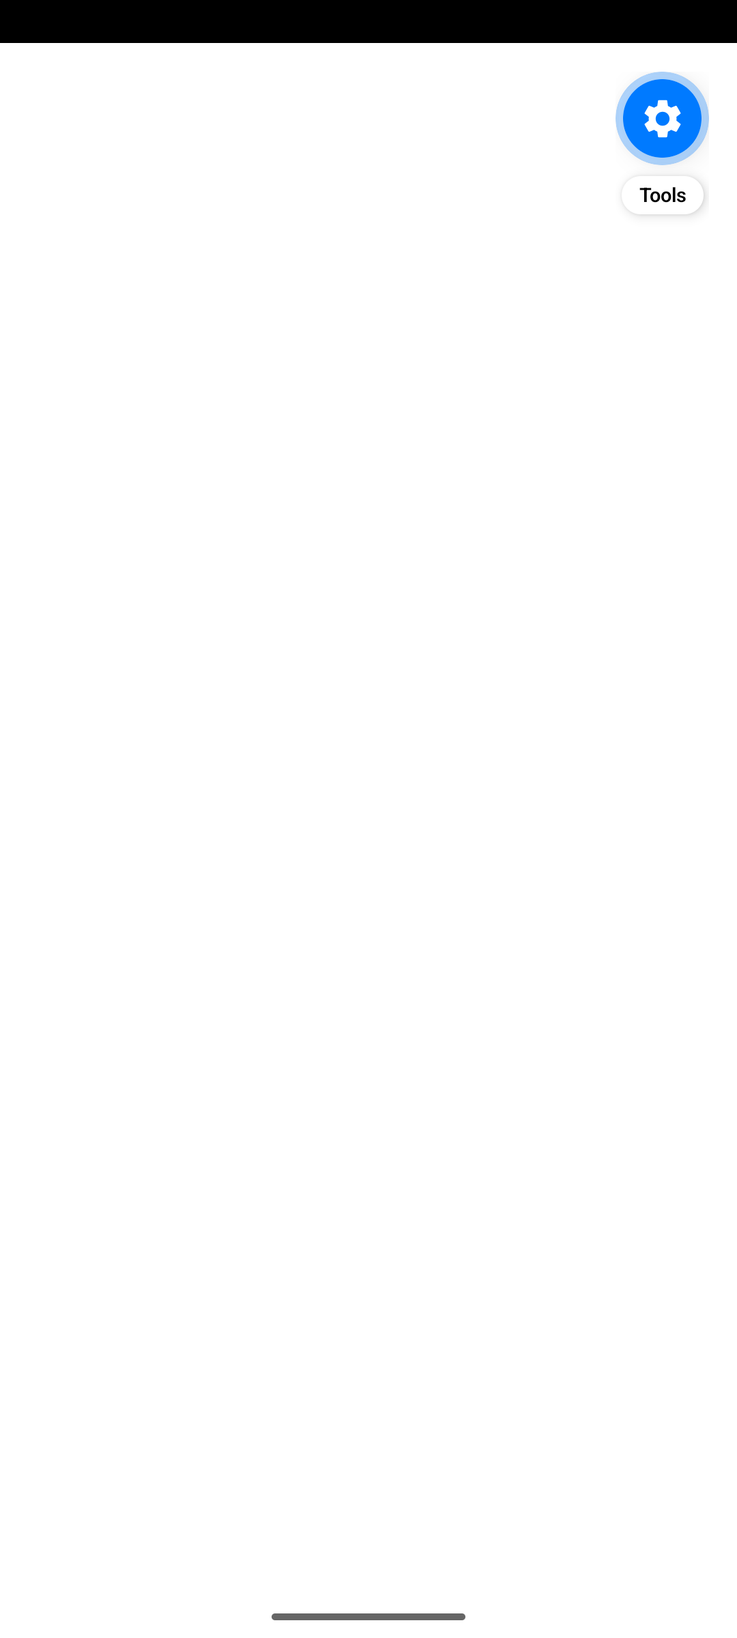
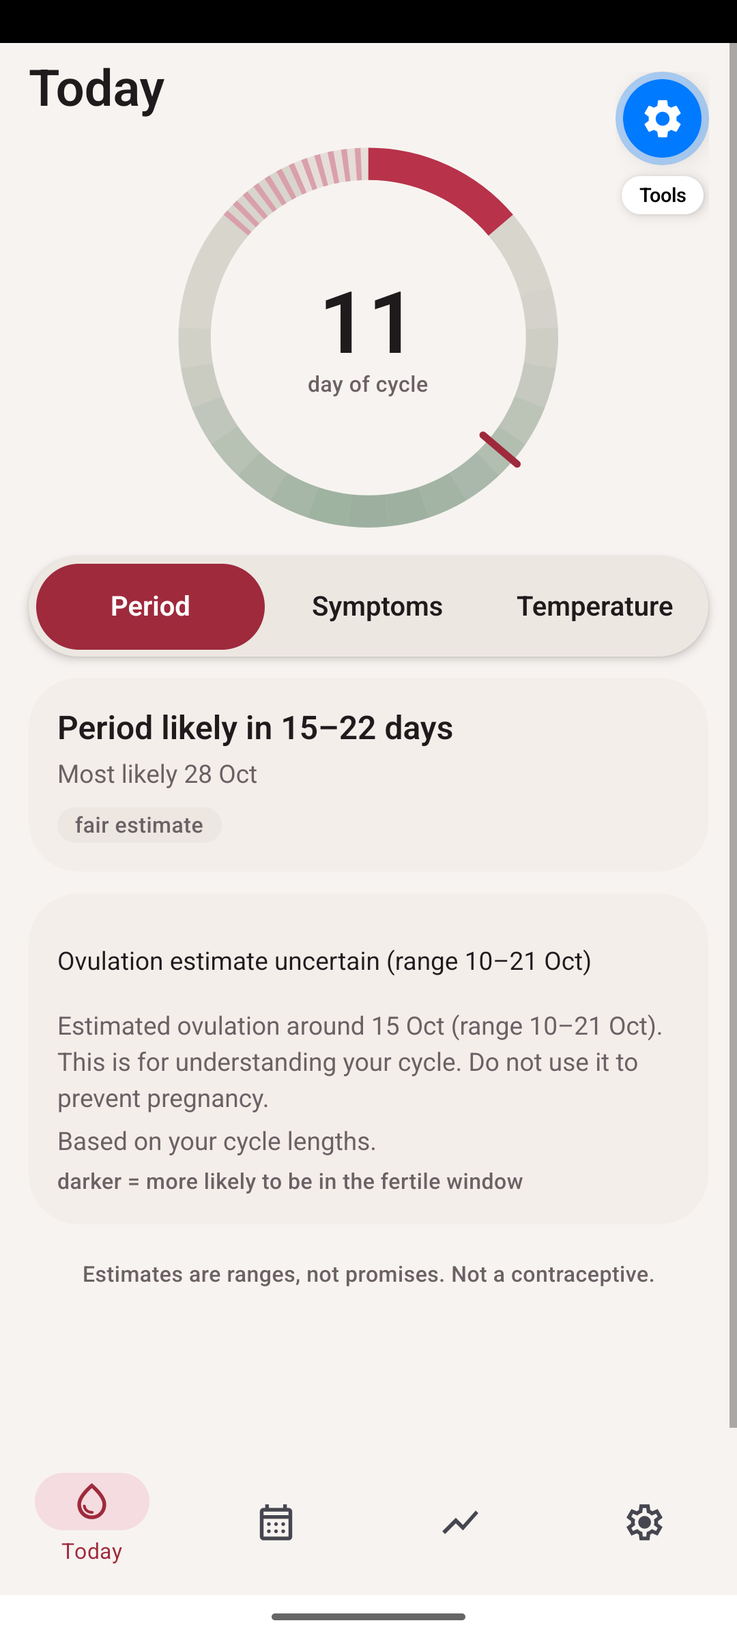
P2-13 app lock, discreet notifications and scheduled reminders

diff --git a/apps/mobile/src/app/settings/notifications.tsx b/apps/mobile/src/app/settings/notifications.tsx
@@ -1,23 +1,34 @@
+import { useState } from 'react';
 import { useTranslation } from 'react-i18next';
+import { ensurePermission, remindersSupported } from '@/services/notifications';
 import { useApp } from '@/state/app';
 import { Card } from '@/ui/Card';
 import { Group, SettingsRow, SwitchRow } from '@/ui/SettingsRow';
 import { SubScreen } from '@/ui/SubScreen';
+import { formatDay } from '@/ui/format';
 import { Text } from '@/ui/Text';
 
 export default function NotificationsScreen() {
   const { t } = useTranslation();
-  const { prefs, prediction, today, updatePrefs } = useApp();
+  const { prefs, prediction, today, updatePrefs, nextReminder } = useApp();
+  const [denied, setDenied] = useState(false);
   const next = prediction?.nextPeriod;
   const lo = next ? Math.max(0, Math.round((Date.parse(next.i80.lo) - Date.parse(today)) / 86_400_000)) : 3;
   const hi = next ? Math.max(lo, Math.round((Date.parse(next.i80.hi) - Date.parse(today)) / 86_400_000)) : 8;
   const set = (patch: Partial<typeof prefs.notifications>) => void updatePrefs({ notifications: { ...prefs.notifications, ...patch } });
+  async function togglePeriod(v: boolean) {
+    if (v && !(await ensurePermission())) { setDenied(true); set({ period: false }); return; }
+    setDenied(false);
+    set({ period: v });
+  }
   return (
     <SubScreen testID="screen-notifications" title={t('settings.notifications.title')}>
       <Group>
-        <SwitchRow testID="notif-period" title={t('settings.notifications.periodSoon')} description={t('settings.notifications.periodSoonDesc')} value={prefs.notifications.period} onChange={(v) => set({ period: v })} />
+        <SwitchRow testID="notif-period" title={t('settings.notifications.periodSoon')} description={remindersSupported ? t('settings.notifications.periodSoonDesc') : t('settings.notifications.androidLater')} disabled={!remindersSupported} value={prefs.notifications.period} onChange={(v) => void togglePeriod(v)} />
         <SwitchRow testID="notif-descriptive" title={t('settings.notifications.descriptive')} description={t('settings.notifications.descriptiveDesc')} value={prefs.notifications.descriptive} onChange={(v) => set({ descriptive: v })} last />
       </Group>
+      {denied ? <Text variant="bodySmall" testID="notif-denied" accessibilityLiveRegion="polite">{t('settings.notifications.denied')}</Text> : null}
+      {prefs.notifications.period ? <Text variant="bodySmall" color="textSecondary" testID="notif-next">{nextReminder ? t('settings.notifications.next', { date: formatDay(nextReminder) }) : t('settings.notifications.none')}</Text> : null}
       <Text variant="heading" accessibilityRole="header">{t('settings.notifications.preview')}</Text>
       <Card testID="notif-preview"><Text>{prefs.notifications.descriptive ? t('settings.notifications.descriptiveText', { lo, hi }) : t('settings.notifications.defaultText')}</Text></Card>
       <Group title={t('settings.notifications.widgets')}><SettingsRow title={t('settings.notifications.widgetsDesc')} disabled last /></Group>

diff --git a/apps/mobile/src/services/notifications.ts b/apps/mobile/src/services/notifications.ts
@@ -1,0 +1,59 @@
+// Local reminders only: no push token is ever requested (PLAN.md §6.1). One reminder, rescheduled whenever the prediction changes.
+import Constants, { ExecutionEnvironment } from 'expo-constants';
+import { Platform } from 'react-native';
+import i18n from '@/i18n';
+import type { ReminderPlan } from '@/features/notifications/plan';
+
+const ID = 'sanguine-period';
+const CHANNEL = 'reminders';
+
+/** Android in Expo Go cannot even import expo-notifications (it throws since SDK 53), so reminders there wait for the dev client (P3-1). */
+export const remindersSupported = !(Platform.OS === 'android' && Constants.executionEnvironment === ExecutionEnvironment.StoreClient);
+
+type NotificationsModule = typeof import('expo-notifications');
+let loaded: NotificationsModule | undefined;
+function lib(): NotificationsModule {
+  if (!loaded) {
+    loaded = require('expo-notifications') as NotificationsModule;
+    loaded.setNotificationHandler({
+      handleNotification: async () => ({ shouldShowBanner: true, shouldShowList: true, shouldPlaySound: false, shouldSetBadge: false }),
+    });
+  }
+  return loaded;
+}
+
+export async function ensurePermission(): Promise<boolean> {
+  if (!remindersSupported) return false;
+  const Notifications = lib();
+  const cur = await Notifications.getPermissionsAsync();
+  if (cur.granted) return true;
+  if (!cur.canAskAgain) return false;
+  return (await Notifications.requestPermissionsAsync()).granted;
+}
+
+/** Replaces any scheduled reminder with `plan` (or none). Returns the fire date, or undefined. */
+export async function syncReminder(plan: ReminderPlan | undefined): Promise<string | undefined> {
+  if (!remindersSupported) return undefined;
+  const Notifications = lib();
+  await Notifications.cancelScheduledNotificationAsync(ID).catch(() => {});
+  if (!plan) return undefined;
+  if (!(await Notifications.getPermissionsAsync()).granted) return undefined;
+  if (Platform.OS === 'android') await Notifications.setNotificationChannelAsync(CHANNEL, { name: i18n.t('notifications.channel'), importance: Notifications.AndroidImportance.DEFAULT });
+  const [y, m, d] = plan.fireDate.split('-').map(Number) as [number, number, number];
+  const date = new Date(y, m - 1, d, plan.hour, 0, 0);
+  await Notifications.scheduleNotificationAsync({
+    identifier: ID,
+    content: {
+      title: i18n.t('notifications.defaultTitle'),
+      // discreet by default: no health words on the lock screen unless the user turned the details on (§8.8)
+      body: plan.descriptive ? i18n.t('notifications.periodBody', { lo: plan.lo, hi: plan.hi }) : i18n.t('notifications.defaultBody'),
+    },
+    trigger: { type: Notifications.SchedulableTriggerInputTypes.DATE, date, ...(Platform.OS === 'android' ? { channelId: CHANNEL } : {}) },
+  });
+  return plan.fireDate;
+}
+
+export async function cancelReminder(): Promise<void> {
+  if (!remindersSupported) return;
+  await lib().cancelScheduledNotificationAsync(ID).catch(() => {});
+}

diff --git a/apps/mobile/src/features/lock/LockGate.tsx b/apps/mobile/src/features/lock/LockGate.tsx
@@ -1,0 +1,46 @@
+// Covers the app with the lock screen and hides content in the app switcher (PLAN.md §8.8).
+import { type ReactNode, useEffect, useRef, useState } from 'react';
+import { useTranslation } from 'react-i18next';
+import { AppState, View } from 'react-native';
+import { useApp } from '@/state/app';
+import { useLock } from '@/state/lock';
+import { useTheme } from '@/theme';
+import { Button } from '@/ui/Button';
+import { Text } from '@/ui/Text';
+
+export function LockGate({ children }: { children: ReactNode }) {
+  const t = useTheme();
+  const { t: tr } = useTranslation();
+  const { locked, failed, evaluate, noteBackground, tryUnlock } = useLock();
+  const ready = useApp((s) => s.status === 'ready' && s.onboarded);
+  const appLock = useApp((s) => s.prefs.appLock);
+  const [hidden, setHidden] = useState(false); // app switcher snapshot cover
+  const last = useRef(AppState.currentState);
+
+  useEffect(() => { if (ready) void evaluate(appLock, tr('lock.reason')); }, [ready, appLock, evaluate, tr]);
+  useEffect(() => {
+    const sub = AppState.addEventListener('change', (s) => {
+      setHidden(s !== 'active');
+      if (s === 'background') noteBackground();
+      // only a return from the background re-checks the lock: the system Face ID sheet and the app switcher only pass through 'inactive'
+      if (s === 'active' && last.current === 'background' && ready) void evaluate(appLock, tr('lock.reason'));
+      last.current = s;
+    });
+    return () => sub.remove();
+  }, [ready, appLock, evaluate, noteBackground, tr]);
+
+  return (
+    <View style={{ flex: 1 }}>
+      {children}
+      {locked ? (
+        <View testID="lock-screen" accessibilityViewIsModal style={{ position: 'absolute', top: 0, left: 0, right: 0, bottom: 0, backgroundColor: t.screenBg, alignItems: 'center', justifyContent: 'center', padding: 32, gap: 16 }}>
+          <Text variant="title" accessibilityRole="header" style={{ textAlign: 'center' }}>{tr('lock.title')}</Text>
+          <Text color="textSecondary" style={{ textAlign: 'center' }}>{tr('lock.explain')}</Text>
+          {failed ? <Text variant="bodySmall" style={{ color: t.c.period }} accessibilityLiveRegion="polite">{tr('lock.failed')}</Text> : null}
+          <Button testID="unlock-button" label={tr('lock.unlock')} onPress={() => void tryUnlock(tr('lock.reason'))} />
+        </View>
+      ) : null}
+      {hidden && !locked ? <View pointerEvents="none" testID="privacy-cover" style={{ position: 'absolute', top: 0, left: 0, right: 0, bottom: 0, backgroundColor: t.screenBg }} /> : null}
+    </View>
+  );
+}

diff --git a/apps/mobile/src/features/onboarding/OnboardingFlow.tsx b/apps/mobile/src/features/onboarding/OnboardingFlow.tsx
@@ -1,11 +1,12 @@
 // Five steps, one question each (PLAN.md §8.3, §8.6, §9.8). Only age is required; the last step needs the data-handling acknowledgement.
 import { addDays } from '@sanguine/engine';
 import { useRouter } from 'expo-router';
-import { useMemo, useState } from 'react';
+import { useEffect, useMemo, useState } from 'react';
 import { useTranslation } from 'react-i18next';
 import { KeyboardAvoidingView, Platform, Pressable, ScrollView, Switch, View } from 'react-native';
 import { useSafeAreaInsets } from 'react-native-safe-area-context';
 import { todayLocal } from '@/services/clock';
+import { deviceHasLock } from '@/services/lockAuth';
 import { useApp } from '@/state/app';
 import { useTheme } from '@/theme';
 import { Button } from '@/ui/Button';
@@ -44,6 +45,8 @@ export function OnboardingFlow() {
   const [healthNote, setHealthNote] = useState(false);
   const [backupIntent, setBackupIntent] = useState(false);
   const [busy, setBusy] = useState(false);
+  const [lockAvailable, setLockAvailable] = useState<boolean | undefined>();
+  useEffect(() => { void deviceHasLock().then(setLockAvailable); }, []);
 
   const birthYear = num(birthText, 4);
   const lastPeriod = lastChoice === 'today' ? today : lastChoice === 'yesterday' ? addDays(today, -1) : lastChoice === 'weekAgo' ? addDays(today, -7) : lastChoice === 'other' ? other : undefined;
@@ -120,6 +123,7 @@ export function OnboardingFlow() {
         {step === 4 && (<>
           {title('onboarding.s5.title')}
           <Text>{tr('legal.privacyThreeSentences')}</Text>
+          {lockAvailable !== undefined ? <Text variant="bodySmall" color="textSecondary" testID="lock-explain">{tr(lockAvailable ? 'lock.explain' : 'lock.off')}</Text> : null}
           <Pressable testID="consent" accessibilityRole="checkbox" accessibilityLabel={tr('onboarding.s5.consent')} aria-checked={a.consent} onPress={() => setA({ ...a, consent: !a.consent })}
             style={{ flexDirection: 'row', gap: 12, alignItems: 'center', minHeight: 52 }}>
             <View style={{ width: 26, height: 26, borderRadius: 6, borderWidth: 2, borderColor: t.c.accent, backgroundColor: a.consent ? t.c.accent : 'transparent', alignItems: 'center', justifyContent: 'center' }}>

diff --git a/apps/mobile/src/state/app.ts b/apps/mobile/src/state/app.ts
@@ -10,7 +10,9 @@ import { loadPrefs, type Prefs, DEFAULT_PREFS, savePrefs } from '@/data/prefs';
 import type { Profile } from '@/data/project';
 import { getSetting, setSetting } from '@/data/settings';
 import type { EventStore } from '@/data/store';
+import { planReminder } from '@/features/notifications/plan';
 import { appData } from '@/services/appData';
+import { syncReminder } from '@/services/notifications';
 import { todayLocal } from '@/services/clock';
 
 interface AppState {
@@ -27,6 +29,9 @@ interface AppState {
   prediction?: Prediction;
   /** Bumps on every refresh so screens can re-query their own tables. */
   version: number;
+  /** Date the next local reminder will fire, if one is scheduled. */
+  nextReminder: string | undefined;
+  syncReminders: () => Promise<void>;
   init: () => Promise<void>;
   refresh: () => Promise<void>;
   updatePrefs: (patch: Partial<Prefs>) => Promise<void>;
@@ -44,6 +49,7 @@ export const useApp = create<AppState>((set, get) => ({
   onboarded: false,
   today: todayLocal(),
   version: 0,
+  nextReminder: undefined,
 
   async init() {
     try {
@@ -66,6 +72,18 @@ export const useApp = create<AppState>((set, get) => ({
     const prediction = predict(history, inputs.settings, today);
     await recordRaised(db, prediction.flags, flagState);
     set((s) => ({ today, history, settings: inputs.settings, profile, prediction, version: s.version + 1 }));
+    void get().syncReminders();
+  },
+
+  async syncReminders() {
+    const { prediction, prefs, today } = get();
+    const hour = new Date().getHours();
+    try {
+      const plan = planReminder(prediction, prefs.notifications.period, prefs.notifications.descriptive, today, hour);
+      set({ nextReminder: await syncReminder(plan) });
+    } catch {
+      set({ nextReminder: undefined });
+    }
   },
 
   async updatePrefs(patch) {
@@ -74,6 +92,7 @@ export const useApp = create<AppState>((set, get) => ({
     const next = { ...prefs, ...patch };
     await savePrefs(db, next);
     set({ prefs: next });
+    if (patch.notifications) void get().syncReminders();
   },
 
   async muteFlag(code) {

diff --git a/apps/mobile/src/state/lock.ts b/apps/mobile/src/state/lock.ts
@@ -1,0 +1,41 @@
+// App lock state (PLAN.md §8.8). Not persisted: the app always starts locked when the setting is on and the phone has a screen lock.
+import { create } from 'zustand';
+import { shouldLock } from '@/features/lock/lockModel';
+import { authenticate, deviceHasLock } from '@/services/lockAuth';
+
+interface LockState {
+  locked: boolean;
+  available: boolean | undefined;
+  unlockedThisSession: boolean;
+  backgroundedAt: number | undefined;
+  failed: boolean;
+  prompting: boolean;
+  /** Called once the data layer is ready and again whenever the app returns to the foreground. */
+  evaluate: (appLock: boolean, reason: string) => Promise<void>;
+  noteBackground: () => void;
+  tryUnlock: (reason: string) => Promise<void>;
+}
+
+export const useLock = create<LockState>((set, get) => ({
+  locked: false, available: undefined, unlockedThisSession: false, backgroundedAt: undefined, failed: false, prompting: false,
+
+  async evaluate(appLock, reason) {
+    const available = get().available ?? (await deviceHasLock());
+    set({ available });
+    const lock = shouldLock({ appLock, available, unlockedThisSession: get().unlockedThisSession, backgroundedAt: get().backgroundedAt, now: Date.now() });
+    if (!lock) { set({ locked: false }); return; }
+    set({ locked: true });
+    await get().tryUnlock(reason);
+  },
+
+  noteBackground() {
+    if (get().backgroundedAt === undefined || !get().locked) set({ backgroundedAt: Date.now() });
+  },
+
+  async tryUnlock(reason) {
+    if (get().prompting) return;
+    set({ prompting: true });
+    const ok = await authenticate(reason);
+    set(ok ? { locked: false, unlockedThisSession: true, backgroundedAt: undefined, failed: false, prompting: false } : { failed: true, prompting: false });
+  },
+}));

diff --git a/apps/mobile/src/app/settings/privacy.tsx b/apps/mobile/src/app/settings/privacy.tsx
@@ -3,6 +3,7 @@ import { useState } from 'react';
 import { useTranslation } from 'react-i18next';
 import { Alert } from 'react-native';
 import { shareExport, pickAndImport } from '@/services/exportImport';
+import { deviceHasLock } from '@/services/lockAuth';
 import { useApp } from '@/state/app';
 import { Card } from '@/ui/Card';
 import { Group, SettingsRow, SwitchRow } from '@/ui/SettingsRow';
@@ -38,7 +39,7 @@ export default function PrivacyScreen() {
           return t('settings.privacy.importDone', { n: r.kind === 'sanguine' ? r.result.imported : r.result.added });
         })} />
         <SettingsRow testID="privacy-backup" title={t('settings.privacy.backup')} description={t('settings.privacy.backupDesc')} onPress={() => router.push('/settings/backup' as never)} />
-        <SwitchRow testID="privacy-lock" title={t('settings.privacy.appLock')} description={t('settings.privacy.appLockDesc')} value={prefs.appLock} onChange={(v) => void updatePrefs({ appLock: v })} />
+        <SwitchRow testID="privacy-lock" title={t('settings.privacy.appLock')} description={t('settings.privacy.appLockDesc')} value={prefs.appLock} onChange={(v) => void (async () => { if (v && !(await deviceHasLock())) { setMsg(t('settings.privacy.appLockOnly')); return; } setMsg(undefined); await updatePrefs({ appLock: v }); })()} />
         <SwitchRow testID="privacy-icon" title={t('settings.privacy.discreetIcon')} description={t('settings.privacy.discreetSoon')} value={false} onChange={() => {}} disabled />
         <SettingsRow testID="privacy-delete" title={t('settings.privacy.deleteAll')} destructive onPress={confirmDelete} last />
       </Group>

diff --git a/apps/mobile/src/app/dev/seed.tsx b/apps/mobile/src/app/dev/seed.tsx
@@ -9,7 +9,7 @@ import { deleteDeviceSecret, deleteNoteKey } from '@/services/secrets';
 import { useApp } from '@/state/app';
 
 export default function Seed() {
-  const params = useLocalSearchParams<{ scenario?: string; theme?: string; resetSecrets?: string }>();
+  const params = useLocalSearchParams<{ scenario?: string; theme?: string; resetSecrets?: string; lock?: string }>();
   const router = useRouter();
   const status = useApp((s) => s.status);
   useEffect(() => {
@@ -23,13 +23,13 @@ export default function Seed() {
       const s = scenario(name, todayLocal());
       await store.setProfile(s.profile);
       if (s.events.length) await store.appendMany(s.events);
+      await updatePrefs({ appLock: params.lock === '1', ...(params.theme === 'dark' || params.theme === 'light' ? { theme: params.theme } : {}) });
       await setSetting(db, 'onboarded', true);
       await completeOnboarding();
-      if (params.theme === 'dark' || params.theme === 'light') await updatePrefs({ theme: params.theme });
       await refresh();
       router.replace('/today');
     })();
-  }, [status, params.scenario, params.theme, params.resetSecrets, router]);
+  }, [status, params.scenario, params.theme, params.resetSecrets, params.lock, router]);
   if (!__DEV__) return <Redirect href="/" />;
   return <Text>Loading sample data…</Text>;
 }

diff --git a/apps/mobile/src/services/secrets.ts b/apps/mobile/src/services/secrets.ts
@@ -1,6 +1,7 @@
 // The backup device secret lives in the Keychain / Android Keystore (PLAN.md §6.3), never in the database or the log.
 import { secretToRecoveryWords } from '@sanguine/crypto';
 import * as SecureStore from 'expo-secure-store';
+import { useLock } from '@/state/lock';
 import { deviceClock } from './clock';
 
 const KEY = 'sanguine.backup.deviceSecret';
@@ -29,6 +30,8 @@ export async function deleteDeviceSecret(): Promise<void> {
 const NOTE_KEY = 'sanguine.notes.key';
 /** Key for the second encryption layer on notes. P2-13 gates its release behind the app lock. */
 export async function getNoteKey(): Promise<Uint8Array> {
+  // released only while the app is unlocked (PLAN.md §6.1, §8.8)
+  if (useLock.getState().locked) throw new Error('locked');
   const v = await SecureStore.getItemAsync(NOTE_KEY, OPTS);
   if (v) return fromHex(v);
   const key = deviceClock.randomBytes(32);

diff --git a/apps/mobile/src/services/lockAuth.ts b/apps/mobile/src/services/lockAuth.ts
@@ -1,0 +1,19 @@
+import * as LocalAuthentication from 'expo-local-authentication';
+
+/** True when the phone has Face ID, a fingerprint, or at least a passcode / PIN / pattern. */
+export async function deviceHasLock(): Promise<boolean> {
+  try {
+    return (await LocalAuthentication.getEnrolledLevelAsync()) !== LocalAuthentication.SecurityLevel.NONE;
+  } catch {
+    return false;
+  }
+}
+
+export async function authenticate(reason: string): Promise<boolean> {
+  try {
+    const r = await LocalAuthentication.authenticateAsync({ promptMessage: reason, disableDeviceFallback: false, cancelLabel: undefined });
+    return r.success;
+  } catch {
+    return false;
+  }
+}

diff --git a/apps/mobile/src/app/_layout.tsx b/apps/mobile/src/app/_layout.tsx
@@ -7,6 +7,7 @@ import { AppState, Text as RNText, View } from 'react-native';
 import { SafeAreaProvider } from 'react-native-safe-area-context';
 import '@/i18n';
 import { useApp } from '@/state/app';
+import { LockGate } from '@/features/lock/LockGate';
 import { ThemeProvider, useTheme } from '@/theme';
 
 void SplashScreen.preventAutoHideAsync();
@@ -70,7 +71,9 @@ export default function RootLayout() {
   return (
     <SafeAreaProvider>
       <ThemeProvider pref={theme}>
-        <Shell />
+        <LockGate>
+          <Shell />
+        </LockGate>
       </ThemeProvider>
     </SafeAreaProvider>
   );

diff --git a/docs/DECISIONS.md b/docs/DECISIONS.md
@@ -98,3 +98,4 @@ Status: open = not yet checked, carried by the owning backlog item; applied = co
 - D-034 (2026-10-09) Backup KDF cost in JavaScript (P2-12, supersedes the cost in D-027 (6)). Measured in Expo Go on the iOS simulator (Mac CPU, Hermes): Argon2id at the plan's 64 MiB × 3 took 38.9 s; at 19 MiB × 2 (the OWASP minimum) 7.4 s. A real phone is slower still, so the JavaScript build seals with 19 MiB × 2 (`BACKUP_KDF`, written into each file's header). This is acceptable because the file key is the Argon2id output XOR a 256-bit device secret held in Secure Store and shown as the recovery code: a guessed passphrase alone never opens a file, so KDF cost only matters if the recovery code also leaks. Phase 3 (native libsodium, P3-7) returns to 64 MiB × 3; old files still open because the parameters are in the header. Rejected: keeping 64 MiB × 3 (a 40-second freeze on first use); dropping the progress indicator.
 - D-035 (2026-10-09) Settings (P2-12). (1) Seven rows: Life state, Health sync (a "later update" page: it needs native modules), Privacy and data, Notifications and widgets, Appearance, Tracking options, About. (2) Changing life state ends every open state (`life_state.end`) and sets the new one on the chosen day; history is listed; the page says what the state does to estimates (paused, warm-up, wider ranges). (3) Privacy: export (zip via the share sheet), import (zip or period-start CSV), encrypted backup (passphrase ≥ 8 characters; the recovery code card appears once, before the file is offered), app lock switch (wired in P2-13), a disabled discreet-icon switch ("later update", P3-6), and Delete everything. (4) Delete everything drops every table and trigger (children first, the append-only triggers forbid `DELETE` on `event`), re-migrates, deletes the backup device secret and the note key from Secure Store, resets preferences and returns to onboarding; its confirm button reads "Delete all my data" so it cannot be confused with the row behind the alert. (5) Tracking options: the 24 symptoms as switches (catalogue order), °C/°F, usual temperature source, sexual-activity logging (off by default) and the ovulation-estimate switch (in teen mode it is the explicit unlock, with the explanatory text). (6) About: wordmark band in the brand wine (the only in-app use, §9.9), app version, estimate-engine version and the first 12 hex digits of the engine build hash, the fixed disclaimer, how to read estimates, the glossary, sources (§3.2, with the guideline named without any condition: "International evidence-based guideline 2023") and licences, all from `copy/about.en-AU.json`. (7) iOS keychain items survive an app-data reset, so tests that need a first-run backup use `/dev/seed?...&resetSecrets=1`. (8) Sub-pages have a fixed Back button above the scroll area.
 - D-036 (2026-10-09) Findings from the automated commit security review of P2-12, all accepted and fixed. (1) Passphrase and recovery-code fields were plain text with autocorrect on: they are now masked (`secure`: no suggestions, no autocomplete, no autocorrect learning) and the typed values are cleared from state when the operation ends. (2) "Delete everything" dropped the tables but deleted content could remain in freed pages and in the write-ahead log: it now sets `secure_delete`, drops, checkpoints the log (`TRUNCATE`), and `VACUUM`s before re-migrating. (3) Exported zips, backups and files copied by the document picker stayed in the cache after use and after "Delete everything": each is now removed as soon as the share sheet or import finishes (`services/tempFiles.ts`), and "Delete everything" sweeps any left over. Screenshot protection of the recovery code screen needs a native flag and stays in P3-6.
+- D-037 (2026-10-09) App lock and reminders (P2-13). (1) Lock: on when the setting is on (default) AND the phone has Face ID, a fingerprint or a passcode/PIN (`getEnrolledLevelAsync`); otherwise it cannot work and stays off, and the switch refuses to turn on with "Turn on a screen lock on this phone first". It locks on first open and after 60 s in the background (`LOCK_AFTER_MS`, pure `shouldLock`); the system sheet falls back to the device passcode. A user cancelling the Face ID sheet does not re-prompt (only a return from the background does); the lock screen shows "Could not unlock. Try again." and an Unlock button. In the app switcher an opaque cover hides the content. (2) The note key is only released while unlocked (`getNoteKey` throws when locked). (3) Verified on the iOS simulator by enrolling Face ID (`notifyutil`) and sending matching and non-matching faces (`apps/mobile/.maestro/lock-ios.sh`). Not verified on Android: the Expo Go emulator cannot be driven through the device-credential prompt without locking the emulator itself; left for the dev client (P3-1). (4) Reminders: one local notification at 09:00 the day before the 80% range begins, replaced on every prediction change (`planReminder`, tested); default text "Sanguine: a reminder", descriptive text only when the user turns details on; nothing while estimates are paused; the page shows "Next reminder: 23 Oct". No push token is requested. (5) Gap, moved to Phase 3 as P3-1b: `expo-notifications` throws on import in Expo Go on Android (SDK 53+), so there `remindersSupported` is false, the switch is disabled with "Reminders on Android arrive in a later update", and the module is only `require`d lazily where supported. Rejected: leaving the import at module level (the Android app crashed at start).
